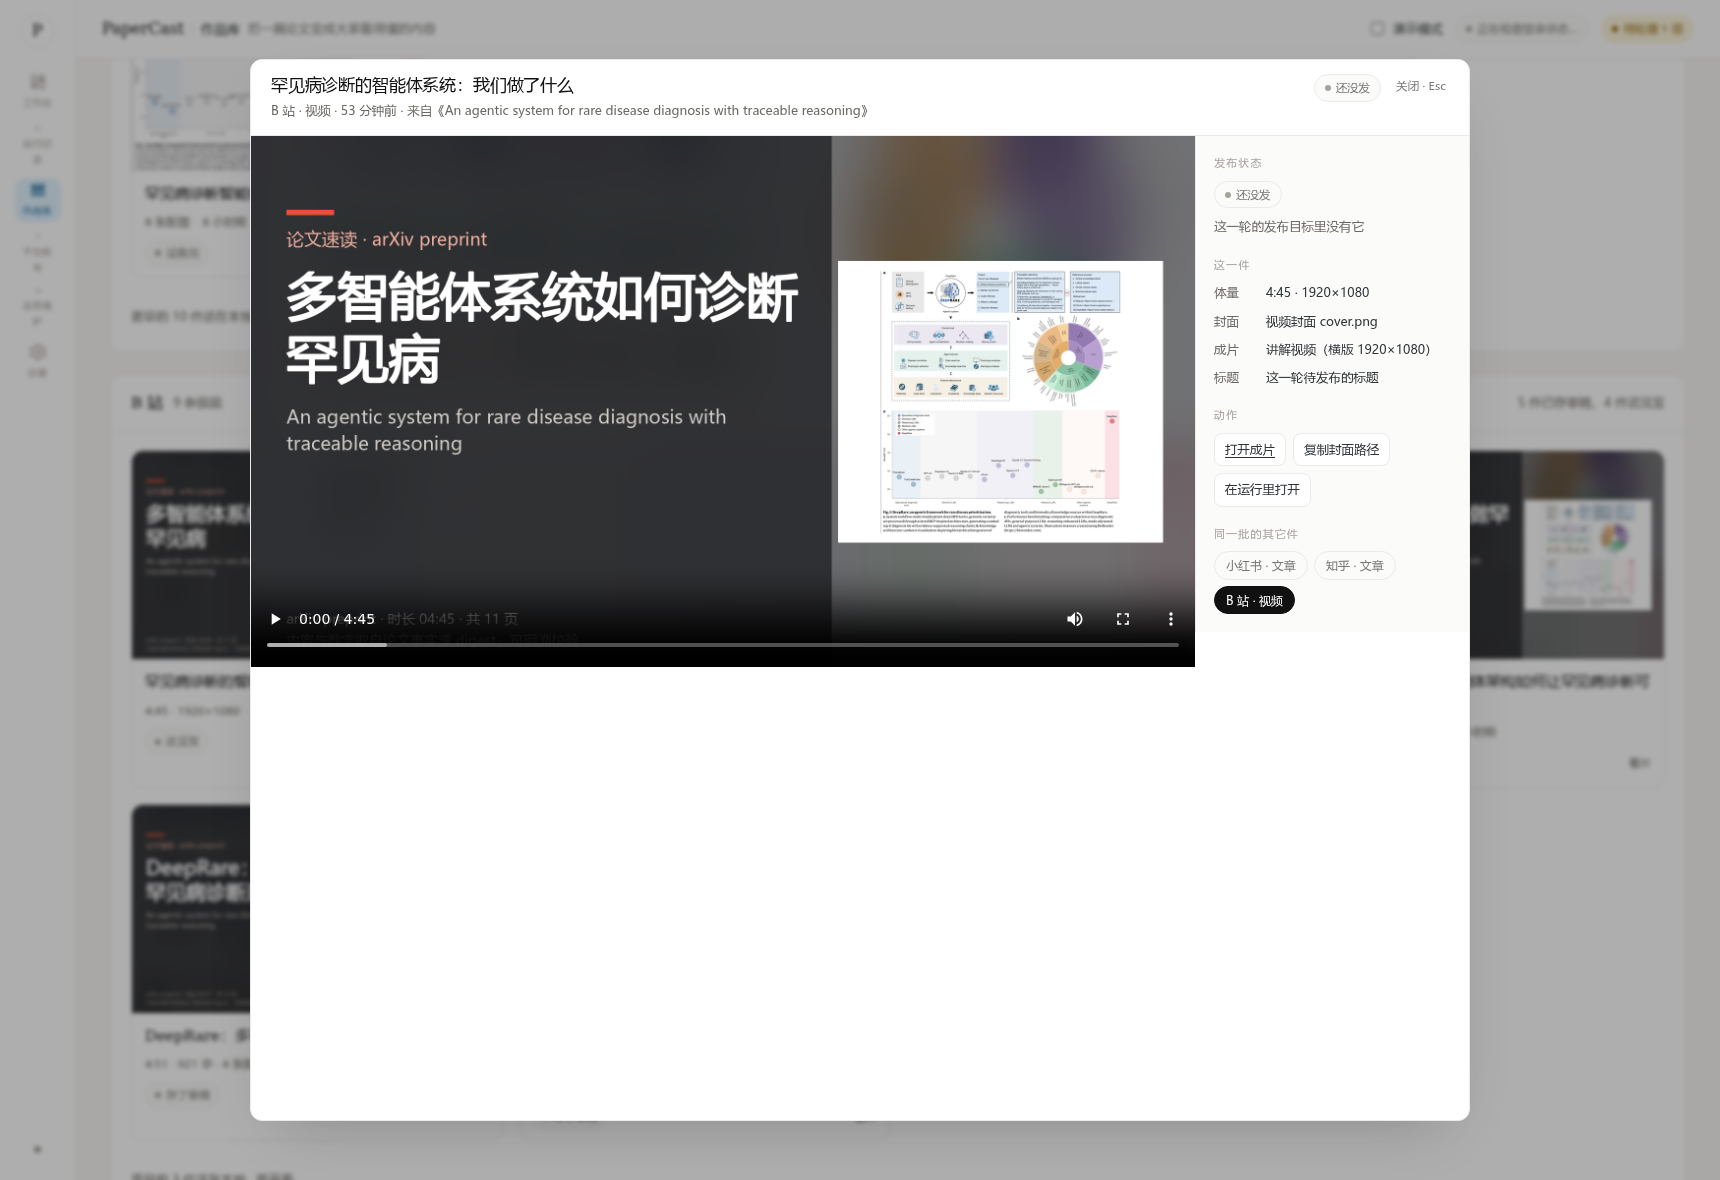
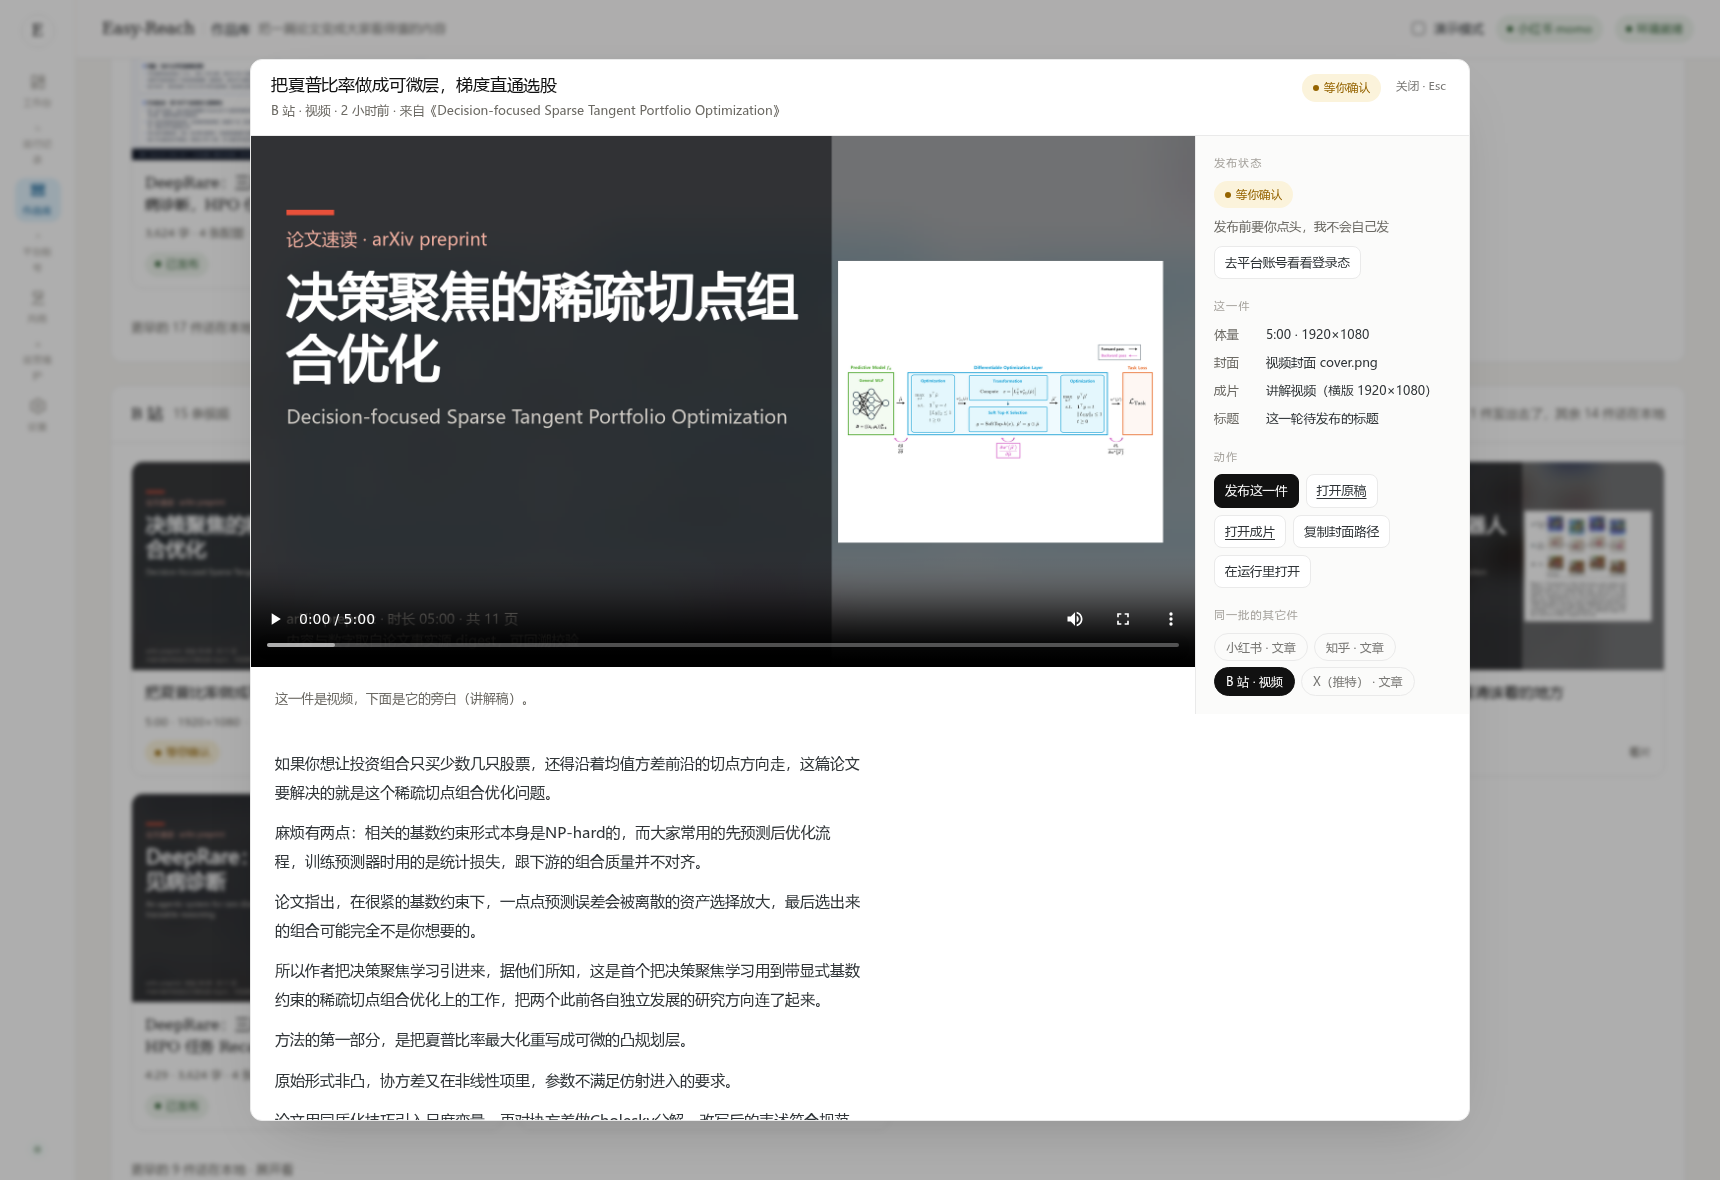
feat(papercast): 视频件点开能看到它自己的旁白稿，不再是一片空白
视频那一件原先没有 reader：点开只有播放器，下面空的，「它讲了什么」看不到。
现在拿成片自己的 video/subtitles.srt 当这件东西的文字稿 —— 字幕本来就是旁白，
而不是去借别家的稿子；没有就如实说「本地没有它的旁白稿」，不拿别的顶替。

- works.ts：lineupFor 的视频分支补 reader: scriptFor(run)，只认 video/subtitles.srt；
- LibraryView：.srt 走 srtToText()，丢掉序号与时间轴只留讲出来的话；空态按「视频件」单独说人话；
- borrowed 判定加上 !l.video：视频件读的是自己的字幕，不该被标成「借了别平台的稿子」；
- evidence：library-* 七张截图跟着这次改动重出。

diff --git a/apps/papercast/src/views/LibraryView.vue b/apps/papercast/src/views/LibraryView.vue
@@ -7,7 +7,7 @@
  *     B 站这一件同时给封面与成片；
  *   · 卡片右下角是**发布状态**（已发布 / 等你确认 / 存了草稿 / 没发成功），
  *     状态与「为什么是这个状态」都来自发布回执与发布阶段的检查项，不编；
- *   · 点开就是这一件本身：一篇文章（渲染后的正文）或一条视频（真播放器），
+ *   · 点开就是这一件本身：一篇文章（渲染后的正文）或一条视频（真播放器 + 它自己的旁白稿），
  *     右边一条窄栏说清状态、来源论文与可以做的动作。
  *
  * 原来的这一页是按「产物文件」罗列的（一张张 p1.png / video.mp4），用户看到的是文件，
@@ -156,6 +156,18 @@ const siblings = computed(() => current.value
   ? works.value.filter((w) => w.run.id === current.value!.run.id)
   : [])
 
+/**
+ * 字幕（.srt）→ 可读段落：丢掉「序号」和「00:00:01,000 --> 00:00:04,200」这种时间轴，只留讲出来的话。
+ * 视频那一件点开要能看到它自己说了什么，而不是一块空白。
+ */
+function srtToText(raw: string): string {
+  return raw
+    .split(/\r?\n/)
+    .map((l) => l.trim())
+    .filter((l) => !!l && !/^\d+$/.test(l) && !/\d{1,2}:\d{2}:\d{2}[,.]\d{1,3}\s*-->/.test(l))
+    .join('\n\n')
+}
+
 watch(current, async (w) => {
   bodyHtml.value = ''
   bodyState.value = 'idle'
@@ -168,7 +180,9 @@ watch(current, async (w) => {
     // 纯文本导出的稿件没有 markdown 结构，按空行切段，别挤成一坨
     const body = w.reader.kind === 'markdown'
       ? text
-      : text.split(/\n+/).map((l) => l.trim()).filter(Boolean).join('\n\n')
+      : /\.srt$/i.test(w.reader.path)
+        ? srtToText(text) // 视频件的旁白稿：字幕文件，按「说的话」分段
+        : text.split(/\n+/).map((l) => l.trim()).filter(Boolean).join('\n\n')
     bodyHtml.value = md.render(body)
     bodyState.value = 'idle'
   } catch (e) {
@@ -369,14 +383,24 @@ const TITLE_FROM: Record<Work['titleFrom'], string> = {
                   </a>
                 </div>
 
+                <!-- 视频件：下面这段是它自己的旁白稿（字幕），不是别家的文章 -->
+                <div v-if="current.kind === 'video' && bodyHtml" class="preview-note">
+                  这一件是视频，下面是它的旁白（讲解稿）。
+                </div>
+
                 <div v-if="bodyState === 'loading'" class="preview-note">正在读这份稿子…</div>
                 <div v-else-if="bodyState === 'error'" class="preview-note">
                   这份稿子读不出来（可能还没导出）。路径：<span class="mono">{{ current.reader?.path }}</span>
                 </div>
                 <article v-else-if="bodyHtml" class="reader prose" v-html="bodyHtml" />
 
-                <div v-else-if="!current.video" class="preview-note">
-                  这一件只有成图，没有可读的正文 —— 上面那些图就是它。
+                <div v-else class="preview-note">
+                  <template v-if="current.video">
+                    这一件是视频，本地没有它的旁白稿 —— 上面那条成片就是它本身。
+                  </template>
+                  <template v-else>
+                    这一件只有成图，没有可读的正文 —— 上面那些图就是它。
+                  </template>
                 </div>
               </div>
 

diff --git a/apps/papercast/src/data/works.ts b/apps/papercast/src/data/works.ts
@@ -131,6 +131,16 @@ function readerFor(run: PaperRun, token: string): Artifact | undefined {
   return mine ?? mds[0] ?? find(all, /article\/export\/content\.txt$/)
 }
 
+/**
+ * 视频那一件的可读文字稿：成片的**旁白字幕**（video/subtitles.srt）。
+ * 视频件原先没有 reader，点开只剩一块空白；而字幕本来就是「它讲了什么」，
+ * 拿它当这件东西的文字稿最实在。没有就不给 —— 绝不拿别家的文章顶替。
+ */
+function scriptFor(run: PaperRun): Artifact | undefined {
+  return (stageOf(run, 'video')?.artifacts ?? [])
+    .find((a) => !!a.url && /video\/subtitles\.srt$/i.test(a.path))
+}
+
 function lineupFor(run: PaperRun, p: PlatformId): Lineup {
   const cards = images(run, 'article').filter((a) => /article\/cards\//.test(a.path)).sort((x, y) => x.path.localeCompare(y.path))
   const posters = images(run, 'poster')
@@ -162,6 +172,8 @@ function lineupFor(run: PaperRun, p: PlatformId): Lineup {
     return {
       cover: videoCover ?? biliCover,
       video: find(videos, /video\/video\.mp4$/) ?? videos[0],
+      // 成片 + 它自己的旁白稿：点开既能放片子，也能读它讲了什么
+      reader: scriptFor(run),
       shots: [],
     }
   }
@@ -300,8 +312,9 @@ export function buildWorks(runs: PaperRun[], extras: Extras): Work[] {
       const title = (channelRec?.title || exportTitle || run.title).trim()
 
       const reader = l.reader
+      // 视频件的文字稿是它自己的字幕，谈不上「借了别家的文案」
       const borrowed =
-        p !== 'generic' && reader && !TOKEN_RE[p].test(reader.path)
+        p !== 'generic' && !l.video && reader && !TOKEN_RE[p].test(reader.path)
           ? '这个平台没有专属文案，这份借的是「' + PLATFORM_META[platformTokenOf(reader.path)].label + '」的稿子'
           : ''
 
